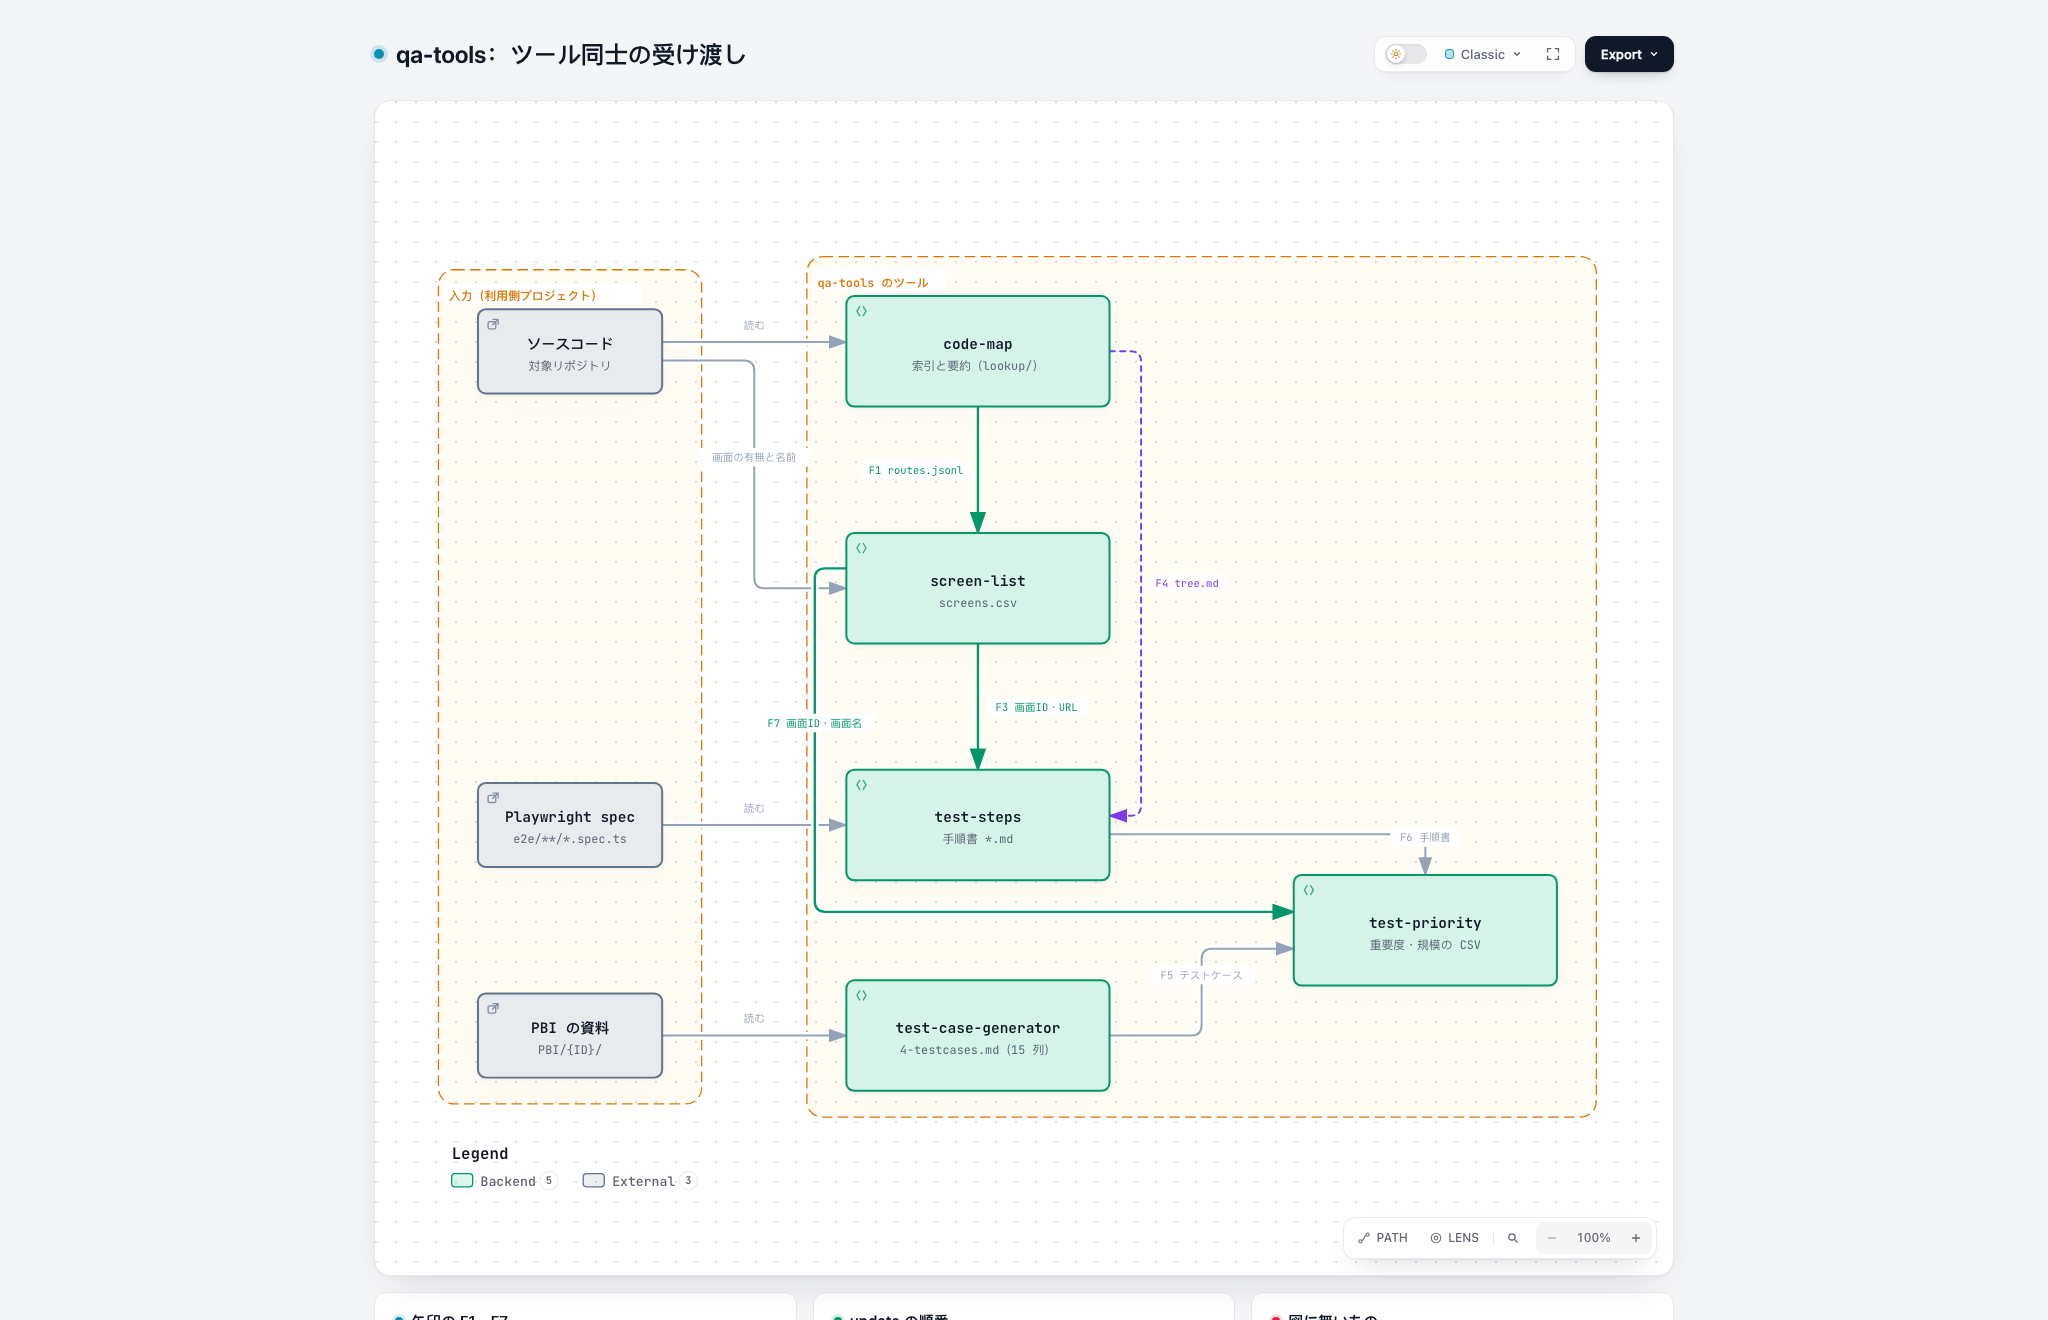
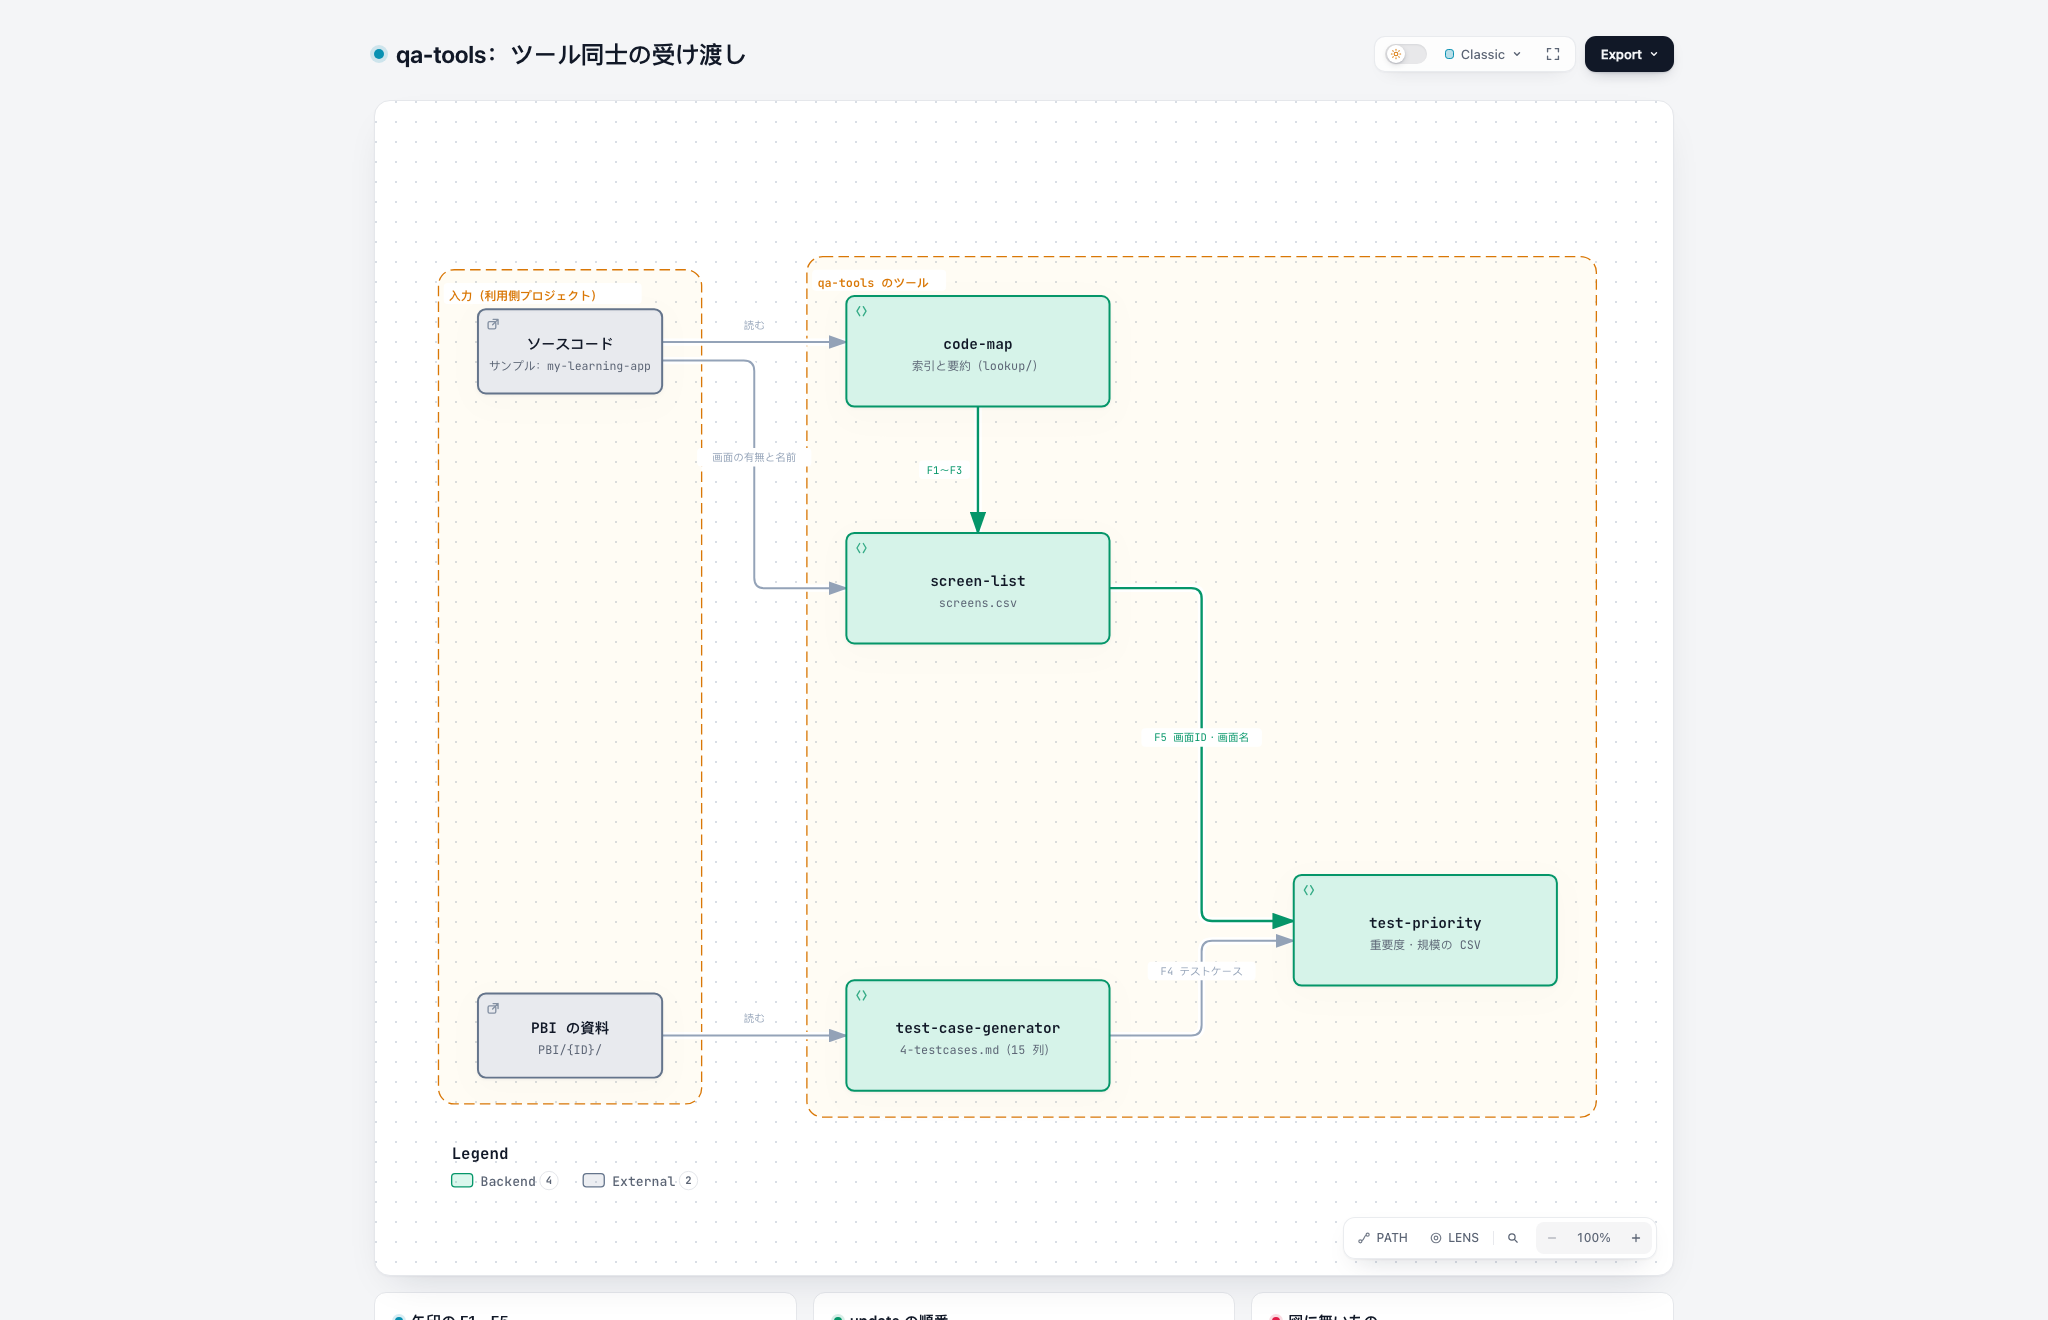
Use my-learning-app as the sample app and drop the Playwright tool for now
- Source-reading tools (code-map, screen-list) are tried on my-learning-app
- test-steps is removed from the design; published files renumbered F1-F5
- screen-list now reads code-map's tree.md (F3) to fill a module column
- Screen IDs come from URL paths; top page and in-page screens go to #22
- Examples and the definition of done point at the sample app

diff --git a/docs/design/contracts.md b/docs/design/contracts.md
@@ -2,7 +2,7 @@
 
 新しいツールを作るときに、全ツールで同じにしなければならない形（コマンド・設定・出力・記録・検査）を決める。ツールを作る人と AI は、この文書と [glossary.md](glossary.md) だけを見れば入出力の形が分かる。
 
-- **対象**：これから作るツール（test-steps・test-priority・code-map・screen-list）
+- **対象**：これから作るツール（test-priority・code-map・screen-list）
 - **対象外**：test-case-generator（v0.4.0 より前に作った）。C4 の出力ディレクトリ `output/` だけは同じで、それ以外の約束にはまだ合わせていない
 - **ルールの強さ**：「必須」「禁止」は [principles.md](principles.md) と同じ意味。外すときは PR に理由を書く
 
@@ -37,7 +37,7 @@
 | `update` | manifest の `source` から変わった入力に対応する項目だけ作り直す | 変わった項目と manifest.json | 変わっていない項目 |
 | `check` | 成果物を検査して結果を表示する | なし | すべて |
 
-**例**：`/qa-tools:test-steps build`、`/qa-tools:code-map build --stage extract`
+**例**：`/qa-tools:test-priority build`、`/qa-tools:code-map build --stage extract`
 
 ## C2. 実行の最後
 
@@ -56,21 +56,21 @@
 1. 置き場所は利用側プロジェクトの `.qa/<ツール名>.toml`
 2. 最上位のキーは次の 4 つだけ。ツールごとに違うのは、各キーの下の中身
 
-| キー | 意味 | 例（test-steps） |
+| キー | 意味 | 例（code-map でサンプルアプリを読む） |
 | --- | --- | --- |
-| `source` | 何を読むか | `repo = "."`、`spec_glob = "app/e2e/**/*.spec.ts"` |
-| `output` | どこに書くか | `dir = "output/test-steps"` |
-| `platform` | どの方式で作るか（ツールごとに選べる値が決まっている） | `"playwright-ts"` |
-| `checks` | どの検査を実行するか。型は表で固定：`run` に検査の名前の配列を書き、検査ごとの設定が要るときは `[checks.<名前>]` に書く | `[checks]` の下に `run = ["sections", "one-to-one"]` |
+| `source` | 何を読むか | `repo = "my-learning-app"`、`root = "src"` |
+| `output` | どこに書くか | `dir = "output/code-map"` |
+| `platform` | どの方式で作るか（ツールごとに選べる値が決まっている） | `"typescript"` |
+| `checks` | どの検査を実行するか。型は表で固定：`run` に検査の名前の配列を書き、検査ごとの設定が要るときは `[checks.<名前>]` に書く | `[checks]` の下に `run = ["public-files"]` |
 
 3. `source.repo` は、読むソースがどこにあるかを名前で指す
-   - 利用側プロジェクトそのものを読むときは `repo = "."`（ダミー製品はこれ）
-   - 別のリポジトリを読むときは名前を書き（例：`repo = "other-app"`）、その絶対パスを**個人設定ファイル** `.qa/local.toml` に書く。共有の設定ファイルに絶対パスを書くのは禁止
+   - 利用側プロジェクトそのものを読むときは `repo = "."`
+   - 別のリポジトリを読むときは名前を書き（例：`repo = "my-learning-app"`）、その絶対パスを**個人設定ファイル** `.qa/local.toml` に書く。共有の設定ファイルに絶対パスを書くのは禁止
 
 ```toml
 # .qa/local.toml（git に入れない）
 [repos]
-other-app = "/Users/me/work/other-app"
+my-learning-app = "/Users/me/work/my-learning-app"
 ```
 
 4. 設定ファイルが無い、またはキーが足りないときは、既定値で続けずに止まり、`init` を実行するよう伝える
@@ -82,7 +82,6 @@ other-app = "/Users/me/work/other-app"
 ```
 output/
 ├── DUMMY-001/        test-case-generator（PBI ごと。この約束より前からある形）
-├── test-steps/       manifest.json、index.md、手順書 *.md
 ├── test-priority/    manifest.json、取り込み用 CSV、レビュー用 CSV、adjudications.json
 ├── code-map/         manifest.json、index.md、modules/、lookup/、_raw/（中間ファイル）
 └── screen-list/      manifest.json、screens.csv、adjudications.json
@@ -103,18 +102,18 @@ output/
 | `generated_by` | オブジェクト | 項目を何で作ったかの件数。キーは `claude`（AI）、`script`（スクリプト）、`carried`（前回から引き継ぎ）、`local`（ローカル LLM、experimental） |
 | `items` | 整数 | 項目の数。`generated_by` の合計と一致する |
 
-**例**（screen-list、ダミー製品で build した直後）
+**例**（screen-list、サンプルアプリで build した直後）
 
 ```json
 {
   "tool": "screen-list",
   "version": 1,
-  "source": { "repo": ".", "commit": "3f2a9c1" },
+  "source": { "repo": "my-learning-app", "commit": "3f2a9c1" },
   "config_hash": "sha256:9b1e0c…",
-  "inputs": { "code-map": { "repo": ".", "commit": "3f2a9c1" } },
+  "inputs": { "code-map": { "repo": "my-learning-app", "commit": "3f2a9c1" } },
   "generated_at": "2026-10-09T10:00:00+09:00",
-  "generated_by": { "claude": 8, "script": 0, "carried": 0, "local": 0 },
-  "items": 8
+  "generated_by": { "claude": 10, "script": 0, "carried": 0, "local": 0 },
+  "items": 10
 }
 ```
 
@@ -135,7 +134,7 @@ output/
 終了コード：`0` = 指摘なし、`1` = 指摘あり、`2` = 入力エラー（ファイルが無いなど）
 
 ```json
-{"check": "check_steps", "file": "output/test-steps", "status": "fail", "findings": [{"code": "SECTION", "file": "app/e2e/login.md", "line": 12, "section": "補足"}], "stats": {"documents": 3, "unresolved": 2}}
+{"check": "check_priority", "file": "output/test-priority/import.csv", "status": "fail", "findings": [{"code": "EXCLUDED_ROW", "line": 12, "case": "DUMMY-001-TC-031"}], "stats": {"rows": 47, "unresolved": 2}}
 ```
 
 ## C7. core の呼び方
@@ -149,8 +148,8 @@ output/
 
 | ファイル | やること | 最初に使うツール（Issue） |
 | --- | --- | --- |
-| `core/manifest.py` | manifest.json の読み書き、設定ファイルのハッシュ | test-steps（#10） |
-| `core/plan.py` | manifest のコミットから今までに変わったファイルの一覧 | test-steps（#11） |
+| `core/manifest.py` | manifest.json の読み書き、設定ファイルのハッシュ | test-priority（#14） |
+| `core/plan.py` | manifest のコミットから今までに変わったファイルの一覧 | code-map（#20） |
 | `core/carry.py` | 前回の項目を「キー ＋ 内容のハッシュ」で比べて引き継ぐ。裁定の記録 | test-priority（#15） |
 | `core/screen_id.py` | 画面 ID を作る・画面 ID から CSV の行を引く | screen-list（#24） |
 
@@ -166,7 +165,7 @@ output/
 
 1. `python3 -m unittest discover -s tests -t .` が通る
 2. `claude plugin validate .` が通る
-3. ダミー製品で E2E を 1 回以上実行し、出力を `examples/dummy-product/sample-output/<ツール名>/` に置く
+3. E2E を 1 回以上実行し、出力例を置く。ソースコードを読むツールはサンプルアプリ（my-learning-app）で実行し `examples/my-learning-app/sample-output/<ツール名>/` に、テストケースを読むツールは `examples/dummy-product/` で実行し `examples/dummy-product/sample-output/<ツール名>/` に置く
 4. `skills/<ツール名>/evals/evals.json` に挙動評価のケースを 2 つ以上書く
 5. README の「構成」と使い方を更新する。ツールの受け渡しが変わったら `docs/architecture/` の図も更新する
 6. `.claude-plugin/plugin.json` の `version` を上げる

diff --git a/docs/design/data-flow.md b/docs/design/data-flow.md
@@ -2,7 +2,7 @@
 
 どのツールが、他のどのツールの出力を読むかを決める。ここに書いていない読み方はしない（[principles.md](principles.md) の P8）。言葉の定義は [glossary.md](glossary.md) にある。
 
-- **状態**：v0.4.0 時点の決定。表に出てくるツールのうち、実装済みは test-case-generator だけ
+- **状態**：表に出てくるツールのうち、実装済みは test-case-generator だけ
 - **変えるとき**：表を変える PR を先に出し、マージしてから読む側を実装する
 
 ![ツール同士の受け渡し](../architecture/data-flow.png)
@@ -13,31 +13,29 @@
 
 | ID | 読むツール | 作るツール | 公開ファイル | 読んで何をするか |
 | --- | --- | --- | --- | --- |
-| F1 | screen-list | code-map | `output/code-map/lookup/routes.jsonl` | ルート定義の一覧から、画面の候補を列挙する |
+| F1 | screen-list | code-map | `output/code-map/lookup/routes.jsonl` | URL で開ける画面の一覧から、画面の候補を列挙する |
 | F2 | screen-list | code-map | `output/code-map/manifest.json` | 読んだ routes.jsonl が古くないかを確かめる |
-| F3 | test-steps | screen-list | `output/screen-list/screens.csv` の `画面ID` 列と `URL` 列 | spec の `page.goto(URL)` の URL から画面 ID を引き、手順書の各ステップに書く |
-| F4 | test-steps | code-map | `output/code-map/lookup/tree.md` | screens.csv の `ソース` 列のファイルが、どのモジュールに属するかを引く |
-| F5 | test-priority | test-case-generator | `output/*/4-testcases.md` の 15 列の表 | 判定するテストケースの一覧として読む |
-| F6 | test-priority | test-steps | `output/test-steps/**/*.md`（`index.md` を除く） | 自動テストの手順書を、手動のテストケースと同じ基準で判定する |
-| F7 | test-priority | screen-list | `output/screen-list/screens.csv` の `画面ID` 列と `画面名` 列 | テストケースの「確認画面」列の画面名から画面 ID を引く |
+| F3 | screen-list | code-map | `output/code-map/lookup/tree.md` | `ソース` 列のファイルがどのモジュールに属するかを引き、`モジュール` 列に書く |
+| F4 | test-priority | test-case-generator | `output/*/4-testcases.md` の 15 列の表 | 判定するテストケースの一覧として読む |
+| F5 | test-priority | screen-list | `output/screen-list/screens.csv` の `画面ID` 列と `画面名` 列 | テストケースの「確認画面」列の画面名から画面 ID を引く |
 
-**読み合わないこと（決定）**：code-map は screen-list の出力を読まない。読み合うと、どちらを先に `update` しても、片方が 1 つ前の版を読むことになるからである。「このモジュールに含まれる画面」が必要なツールは、F3 と F4 を自分で突き合わせて求める。
+**読み合わないこと（決定）**：code-map は screen-list の出力を読まない。読み合うと、どちらを先に `update` しても、片方が 1 つ前の版を読むことになるからである。
 
 ## 画面 ID
 
 | 決めたこと | 内容 |
 | --- | --- |
 | 作るのは | screen-list だけ。他のツールは screens.csv から引くだけで、自分で作らない |
-| 作り方（画面） | `web/` ＋ ルート定義のパス（先頭の `/` を除く）。例：ルート `/tasks/new` → `web/tasks/new` |
-| 作り方（ダイアログ） | 開く画面の ID ＋ `#` ＋ ダイアログのコンポーネント名。例：`web/tasks#DeleteTaskDialog` |
-| 変わらないこと | 画面名を変えても ID は変わらない。ルートのパスかコンポーネント名を変えたときだけ変わる |
+| 作り方（URL で開ける画面） | `web/` ＋ URL のパス（先頭の `/` を除く）。例：`/catalog` → `web/catalog` |
+| 決めていないこと | トップ（`/`）の ID と、URL を変えずにページの中で切り替える画面の ID の付け方は、screen-list の仕様（#22）で決める |
+| 変わらないこと | 画面名を変えても ID は変わらない。URL のパスを変えたときだけ変わる |
 | 引けないとき | 他のツールで画面 ID を決められないときは `[未解決: 画面を特定できない]` と書く（P5） |
 
 画面 ID でつなぐと、次の 3 つの問いに答えられる。
 
-1. この画面は、どのモジュールで実装されているか（F3 ＋ F4）
-2. この画面を確かめているテストはあるか（F3、F7）
-3. どのテストにも出てこない画面はどれか（#27 で作る）
+1. この画面は、どのモジュールで実装されているか（screens.csv の `モジュール` 列。F3）
+2. この画面を確かめているテストケースはあるか（F5）
+3. どのテストケースにも出てこない画面はどれか（#27 で作る）
 
 ## update を実行する順番
 
@@ -45,8 +43,7 @@
 
 1. `/qa-tools:code-map update`
 2. `/qa-tools:screen-list update`
-3. `/qa-tools:test-steps update`
-4. `/qa-tools:test-priority update`
+3. `/qa-tools:test-priority update`
 
 各ツールは `update` を始める前に、自分の manifest の `inputs` と、読む先のツールの今の manifest の `source` を比べる。違っていたら（＝読む先が更新されていたら）、そのことを人に伝えてから進める。
 

diff --git a/README.md b/README.md
@@ -64,7 +64,7 @@ docs/architecture/       アーキテクチャ図（archify）
 tests/                   検査スクリプトと skill 構造のテスト
 ```
 
-設計の考え方は次の 4 点である。今後追加するツール（test-steps・test-priority・code-map・screen-list）も含めた原則と約束ごとは、[docs/design/](docs/design/principles.md) にまとめてある。
+設計の考え方は次の 4 点である。今後追加するツール（test-priority・code-map・screen-list）も含めた原則と約束ごとは、[docs/design/](docs/design/principles.md) にまとめてある。
 
 - **汎用のプロセスと製品コンテキストを分ける。** skill は製品を知らない。製品固有の値は利用側の `.qa/` に置く
 - **Step ごとに必要なものだけを読む。** SKILL.md は流れとゲートだけを持ち、各 Step の詳細は references に分ける。references の冒頭は「契約（入力・出力・検査・次）」で揃えてあり、将来 Step を独立した skill に昇格できる
